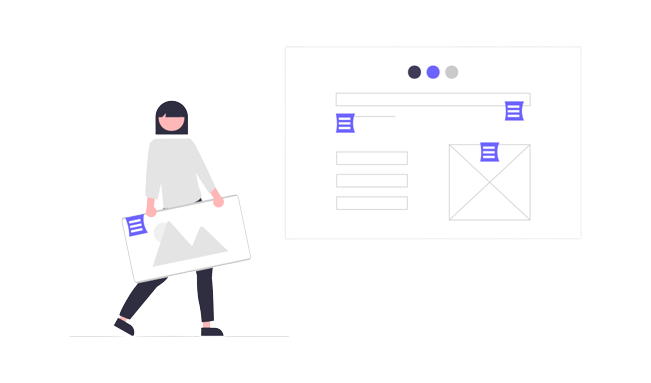
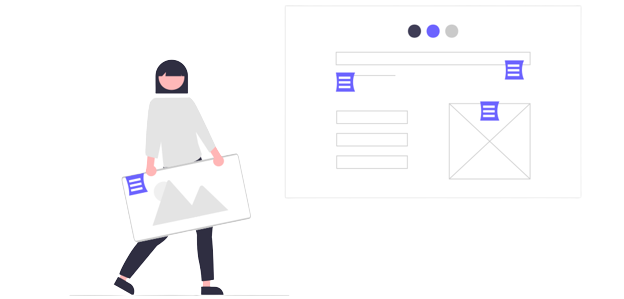
landing page

diff --git a/src/pages/LandingPage/LandingPage.jsx b/src/pages/LandingPage/LandingPage.jsx
@@ -1,24 +1,10 @@
 import React from 'react';
 import './LandingPage.css';
-
+import { useNavigate } from 'react-router';
 const LandingPage = () => {
+    const navigate = useNavigate();
     return (<main>
-        {/* <header>
-            <img className="brand" src="images/FPRSquare.png" alt="FCAMs" width={"90px"} height={"80px"}/>
-            <nav className="navbar">
-                <ul>
-                    <li><a href="#features">Features</a></li>
-                    <li><a href="#team">Our Team</a></li>
-                    <li><a href="#contact">Contact Us</a></li>
-                </ul>
-                <button className="btn" type='button'>
-                    LOG IN
-                </button>
-            </nav>
-        </header> */}
-
-        <section className="home" id="home">
-
+        <section className="home mt-0" id="home">
             <div className="content">
                 <h1 style={{
                     fontWeight: 'bold'
@@ -30,7 +16,7 @@ const LandingPage = () => {
             </div>
         </section>
 
-        <section className="features" id="features">
+        <section className="features mt-20" id="features">
 
             <h1 className="heading">Features to Help your achievements thrive</h1>
 
@@ -83,25 +69,29 @@ const LandingPage = () => {
                 <div className="landcard">
                     <div className="card-content">
                         <div className="card-imgbox">
-                            <img src="" alt="" />
+                            <img src="https://www.linkedin.com/in/karnika-rajput-365159210/overlay/photo/" href = "https://www.linkedin.com/in/karan-banjade-929b9a167/" alt="" />
                         </div>
                         <div className="card-contentbox">
                             <h3>Karan Banjade</h3>
                             <span>Full Stack Developer</span>
                             <div className="social-icons flex justify-between">
                             <span>
+                                <a href='https://github.com/KaranBanjade' target={"_blank"} rel={"noreferrer"} >
                                 <svg xmlns="http://www.w3.org/2000/svg" x="0px" y="0px"
                                     width="50" height="50"
-                                    viewBox="0 0 50 50">
+                                    viewBox="0 0 50 50" >
                                     <path d="M17.791,46.836C18.502,46.53,19,45.823,19,45v-5.4c0-0.197,0.016-0.402,0.041-0.61C19.027,38.994,19.014,38.997,19,39 c0,0-3,0-3.6,0c-1.5,0-2.8-0.6-3.4-1.8c-0.7-1.3-1-3.5-2.8-4.7C8.9,32.3,9.1,32,9.7,32c0.6,0.1,1.9,0.9,2.7,2c0.9,1.1,1.8,2,3.4,2 c2.487,0,3.82-0.125,4.622-0.555C21.356,34.056,22.649,33,24,33v-0.025c-5.668-0.182-9.289-2.066-10.975-4.975 c-3.665,0.042-6.856,0.405-8.677,0.707c-0.058-0.327-0.108-0.656-0.151-0.987c1.797-0.296,4.843-0.647,8.345-0.714 c-0.112-0.276-0.209-0.559-0.291-0.849c-3.511-0.178-6.541-0.039-8.187,0.097c-0.02-0.332-0.047-0.663-0.051-0.999 c1.649-0.135,4.597-0.27,8.018-0.111c-0.079-0.5-0.13-1.011-0.13-1.543c0-1.7,0.6-3.5,1.7-5c-0.5-1.7-1.2-5.3,0.2-6.6 c2.7,0,4.6,1.3,5.5,2.1C21,13.4,22.9,13,25,13s4,0.4,5.6,1.1c0.9-0.8,2.8-2.1,5.5-2.1c1.5,1.4,0.7,5,0.2,6.6c1.1,1.5,1.7,3.2,1.6,5 c0,0.484-0.045,0.951-0.11,1.409c3.499-0.172,6.527-0.034,8.204,0.102c-0.002,0.337-0.033,0.666-0.051,0.999 c-1.671-0.138-4.775-0.28-8.359-0.089c-0.089,0.336-0.197,0.663-0.325,0.98c3.546,0.046,6.665,0.389,8.548,0.689 c-0.043,0.332-0.093,0.661-0.151,0.987c-1.912-0.306-5.171-0.664-8.879-0.682C35.112,30.873,31.557,32.75,26,32.969V33 c2.6,0,5,3.9,5,6.6V45c0,0.823,0.498,1.53,1.209,1.836C41.37,43.804,48,35.164,48,25C48,12.318,37.683,2,25,2S2,12.318,2,25 C2,35.164,8.63,43.804,17.791,46.836z"></path>
                                 </svg>
+                                </a>
                             </span>
                             <span>
+                            <a href='https://www.linkedin.com/in/karan-banjade-929b9a167/' target={"_blank"} rel={"noreferrer"} >
                                 <svg xmlns="http://www.w3.org/2000/svg" x="0px" y="0px"
                                     width="50" height="50"
                                     viewBox="0 0 50 50">
                                     <path d="M25,2C12.318,2,2,12.317,2,25s10.318,23,23,23s23-10.317,23-23S37.682,2,25,2z M18,35h-4V20h4V35z M16,17 c-1.105,0-2-0.895-2-2c0-1.105,0.895-2,2-2s2,0.895,2,2C18,16.105,17.105,17,16,17z M37,35h-4v-5v-2.5c0-1.925-1.575-3.5-3.5-3.5 S26,25.575,26,27.5V35h-4V20h4v1.816C27.168,20.694,28.752,20,30.5,20c3.59,0,6.5,2.91,6.5,6.5V35z"></path>
                                 </svg>
+                                </a>
                             </span>
                             </div>
                         </div>
@@ -118,18 +108,22 @@ const LandingPage = () => {
                             <span>Backend Developer</span>
                             <div className="social-icons flex justify-between">
                             <span>
+                            <a href='https://github.com/abhishekg323' target={"_blank"} rel={"noreferrer"}  >
                                 <svg xmlns="http://www.w3.org/2000/svg" x="0px" y="0px"
                                     width="50" height="50"
                                     viewBox="0 0 50 50">
                                     <path d="M17.791,46.836C18.502,46.53,19,45.823,19,45v-5.4c0-0.197,0.016-0.402,0.041-0.61C19.027,38.994,19.014,38.997,19,39 c0,0-3,0-3.6,0c-1.5,0-2.8-0.6-3.4-1.8c-0.7-1.3-1-3.5-2.8-4.7C8.9,32.3,9.1,32,9.7,32c0.6,0.1,1.9,0.9,2.7,2c0.9,1.1,1.8,2,3.4,2 c2.487,0,3.82-0.125,4.622-0.555C21.356,34.056,22.649,33,24,33v-0.025c-5.668-0.182-9.289-2.066-10.975-4.975 c-3.665,0.042-6.856,0.405-8.677,0.707c-0.058-0.327-0.108-0.656-0.151-0.987c1.797-0.296,4.843-0.647,8.345-0.714 c-0.112-0.276-0.209-0.559-0.291-0.849c-3.511-0.178-6.541-0.039-8.187,0.097c-0.02-0.332-0.047-0.663-0.051-0.999 c1.649-0.135,4.597-0.27,8.018-0.111c-0.079-0.5-0.13-1.011-0.13-1.543c0-1.7,0.6-3.5,1.7-5c-0.5-1.7-1.2-5.3,0.2-6.6 c2.7,0,4.6,1.3,5.5,2.1C21,13.4,22.9,13,25,13s4,0.4,5.6,1.1c0.9-0.8,2.8-2.1,5.5-2.1c1.5,1.4,0.7,5,0.2,6.6c1.1,1.5,1.7,3.2,1.6,5 c0,0.484-0.045,0.951-0.11,1.409c3.499-0.172,6.527-0.034,8.204,0.102c-0.002,0.337-0.033,0.666-0.051,0.999 c-1.671-0.138-4.775-0.28-8.359-0.089c-0.089,0.336-0.197,0.663-0.325,0.98c3.546,0.046,6.665,0.389,8.548,0.689 c-0.043,0.332-0.093,0.661-0.151,0.987c-1.912-0.306-5.171-0.664-8.879-0.682C35.112,30.873,31.557,32.75,26,32.969V33 c2.6,0,5,3.9,5,6.6V45c0,0.823,0.498,1.53,1.209,1.836C41.37,43.804,48,35.164,48,25C48,12.318,37.683,2,25,2S2,12.318,2,25 C2,35.164,8.63,43.804,17.791,46.836z"></path>
                                 </svg>
+                                </a>
                             </span>
                             <span>
+                            <a href='https://www.linkedin.com/in/abhishekg323/' target={"_blank"} rel={"noreferrer"} >
                                 <svg xmlns="http://www.w3.org/2000/svg" x="0px" y="0px"
                                     width="50" height="50"
                                     viewBox="0 0 50 50">
                                     <path d="M25,2C12.318,2,2,12.317,2,25s10.318,23,23,23s23-10.317,23-23S37.682,2,25,2z M18,35h-4V20h4V35z M16,17 c-1.105,0-2-0.895-2-2c0-1.105,0.895-2,2-2s2,0.895,2,2C18,16.105,17.105,17,16,17z M37,35h-4v-5v-2.5c0-1.925-1.575-3.5-3.5-3.5 S26,25.575,26,27.5V35h-4V20h4v1.816C27.168,20.694,28.752,20,30.5,20c3.59,0,6.5,2.91,6.5,6.5V35z"></path>
                                 </svg>
+                                </a>
                             </span>
                             </div>
                         </div>
@@ -146,18 +140,22 @@ const LandingPage = () => {
                             <span>Frontend Developer</span>
                             <div className="social-icons flex justify-between">
                             <span>
+                            <a href='https://github.com/tarnibalgoher5' target={"_blank"} rel={"noreferrer"} >
                                 <svg xmlns="http://www.w3.org/2000/svg" x="0px" y="0px"
                                     width="50" height="50"
                                     viewBox="0 0 50 50">
                                     <path d="M17.791,46.836C18.502,46.53,19,45.823,19,45v-5.4c0-0.197,0.016-0.402,0.041-0.61C19.027,38.994,19.014,38.997,19,39 c0,0-3,0-3.6,0c-1.5,0-2.8-0.6-3.4-1.8c-0.7-1.3-1-3.5-2.8-4.7C8.9,32.3,9.1,32,9.7,32c0.6,0.1,1.9,0.9,2.7,2c0.9,1.1,1.8,2,3.4,2 c2.487,0,3.82-0.125,4.622-0.555C21.356,34.056,22.649,33,24,33v-0.025c-5.668-0.182-9.289-2.066-10.975-4.975 c-3.665,0.042-6.856,0.405-8.677,0.707c-0.058-0.327-0.108-0.656-0.151-0.987c1.797-0.296,4.843-0.647,8.345-0.714 c-0.112-0.276-0.209-0.559-0.291-0.849c-3.511-0.178-6.541-0.039-8.187,0.097c-0.02-0.332-0.047-0.663-0.051-0.999 c1.649-0.135,4.597-0.27,8.018-0.111c-0.079-0.5-0.13-1.011-0.13-1.543c0-1.7,0.6-3.5,1.7-5c-0.5-1.7-1.2-5.3,0.2-6.6 c2.7,0,4.6,1.3,5.5,2.1C21,13.4,22.9,13,25,13s4,0.4,5.6,1.1c0.9-0.8,2.8-2.1,5.5-2.1c1.5,1.4,0.7,5,0.2,6.6c1.1,1.5,1.7,3.2,1.6,5 c0,0.484-0.045,0.951-0.11,1.409c3.499-0.172,6.527-0.034,8.204,0.102c-0.002,0.337-0.033,0.666-0.051,0.999 c-1.671-0.138-4.775-0.28-8.359-0.089c-0.089,0.336-0.197,0.663-0.325,0.98c3.546,0.046,6.665,0.389,8.548,0.689 c-0.043,0.332-0.093,0.661-0.151,0.987c-1.912-0.306-5.171-0.664-8.879-0.682C35.112,30.873,31.557,32.75,26,32.969V33 c2.6,0,5,3.9,5,6.6V45c0,0.823,0.498,1.53,1.209,1.836C41.37,43.804,48,35.164,48,25C48,12.318,37.683,2,25,2S2,12.318,2,25 C2,35.164,8.63,43.804,17.791,46.836z"></path>
                                 </svg>
+                                </a>
                             </span>
                             <span>
+                            <a href='https://www.linkedin.com/in/tarni-balgoher-159879241/' target={"_blank"} rel={"noreferrer"}  >
                                 <svg xmlns="http://www.w3.org/2000/svg" x="0px" y="0px"
                                     width="50" height="50"
                                     viewBox="0 0 50 50">
                                     <path d="M25,2C12.318,2,2,12.317,2,25s10.318,23,23,23s23-10.317,23-23S37.682,2,25,2z M18,35h-4V20h4V35z M16,17 c-1.105,0-2-0.895-2-2c0-1.105,0.895-2,2-2s2,0.895,2,2C18,16.105,17.105,17,16,17z M37,35h-4v-5v-2.5c0-1.925-1.575-3.5-3.5-3.5 S26,25.575,26,27.5V35h-4V20h4v1.816C27.168,20.694,28.752,20,30.5,20c3.59,0,6.5,2.91,6.5,6.5V35z"></path>
                                 </svg>
+                                </a>
                             </span>
                             </div>
                         </div>
@@ -174,18 +172,22 @@ const LandingPage = () => {
                             <span>Frontend Developer</span>
                             <div className="social-icons flex justify-between">
                             <span>
+                            <a href='https://github.com/karnika22' target={"_blank"} rel={"noreferrer"} >
                                 <svg xmlns="http://www.w3.org/2000/svg" x="0px" y="0px"
                                     width="50" height="50"
                                     viewBox="0 0 50 50">
                                     <path d="M17.791,46.836C18.502,46.53,19,45.823,19,45v-5.4c0-0.197,0.016-0.402,0.041-0.61C19.027,38.994,19.014,38.997,19,39 c0,0-3,0-3.6,0c-1.5,0-2.8-0.6-3.4-1.8c-0.7-1.3-1-3.5-2.8-4.7C8.9,32.3,9.1,32,9.7,32c0.6,0.1,1.9,0.9,2.7,2c0.9,1.1,1.8,2,3.4,2 c2.487,0,3.82-0.125,4.622-0.555C21.356,34.056,22.649,33,24,33v-0.025c-5.668-0.182-9.289-2.066-10.975-4.975 c-3.665,0.042-6.856,0.405-8.677,0.707c-0.058-0.327-0.108-0.656-0.151-0.987c1.797-0.296,4.843-0.647,8.345-0.714 c-0.112-0.276-0.209-0.559-0.291-0.849c-3.511-0.178-6.541-0.039-8.187,0.097c-0.02-0.332-0.047-0.663-0.051-0.999 c1.649-0.135,4.597-0.27,8.018-0.111c-0.079-0.5-0.13-1.011-0.13-1.543c0-1.7,0.6-3.5,1.7-5c-0.5-1.7-1.2-5.3,0.2-6.6 c2.7,0,4.6,1.3,5.5,2.1C21,13.4,22.9,13,25,13s4,0.4,5.6,1.1c0.9-0.8,2.8-2.1,5.5-2.1c1.5,1.4,0.7,5,0.2,6.6c1.1,1.5,1.7,3.2,1.6,5 c0,0.484-0.045,0.951-0.11,1.409c3.499-0.172,6.527-0.034,8.204,0.102c-0.002,0.337-0.033,0.666-0.051,0.999 c-1.671-0.138-4.775-0.28-8.359-0.089c-0.089,0.336-0.197,0.663-0.325,0.98c3.546,0.046,6.665,0.389,8.548,0.689 c-0.043,0.332-0.093,0.661-0.151,0.987c-1.912-0.306-5.171-0.664-8.879-0.682C35.112,30.873,31.557,32.75,26,32.969V33 c2.6,0,5,3.9,5,6.6V45c0,0.823,0.498,1.53,1.209,1.836C41.37,43.804,48,35.164,48,25C48,12.318,37.683,2,25,2S2,12.318,2,25 C2,35.164,8.63,43.804,17.791,46.836z"></path>
                                 </svg>
+                                </a>    
                             </span>
                             <span>
+                            <a href='https://www.linkedin.com/in/karnika-rajput-365159210/' target={"_blank"} rel={"noreferrer"} >
                                 <svg xmlns="http://www.w3.org/2000/svg" x="0px" y="0px"
                                     width="50" height="50"
                                     viewBox="0 0 50 50">
                                     <path d="M25,2C12.318,2,2,12.317,2,25s10.318,23,23,23s23-10.317,23-23S37.682,2,25,2z M18,35h-4V20h4V35z M16,17 c-1.105,0-2-0.895-2-2c0-1.105,0.895-2,2-2s2,0.895,2,2C18,16.105,17.105,17,16,17z M37,35h-4v-5v-2.5c0-1.925-1.575-3.5-3.5-3.5 S26,25.575,26,27.5V35h-4V20h4v1.816C27.168,20.694,28.752,20,30.5,20c3.59,0,6.5,2.91,6.5,6.5V35z"></path>
                                 </svg>
+                                </a>
                             </span>
                             </div>
 
@@ -198,7 +200,7 @@ const LandingPage = () => {
         <section className="footer">
 
             <div className="footer-container">
-                <img className="brand" src="images/FPRSquare.png" alt="FCAMs" width={"100px"} height={"100px"} />
+                <img className="brand" src="images/FPRSquare.png" alt="FCAMs" width={"200px"} height={"200px"} />
                 <div className="box">
                     <h3>Contact Info</h3>
                     <a className="links"> <i className="fas fa-envelope" /> msifmsys@gmail.com </a>

diff --git a/src/pages/LandingPage/LandingPage.css b/src/pages/LandingPage/LandingPage.css
@@ -23,14 +23,15 @@ main{
 .home {
     width: 100vw;
     display: flex;
-    justify-content: space-around;
-    align-items: center;
-    padding-top: 20px;
+    /* justify-content: space-around; */
+    /* align-items: center; */
+    /* padding-top: 20px; */
     /* background-color: peru; */
     /* height: 72vh; */
 }
 .home .image{
     width:45%;
+    height: 10px;
 }
 
 
@@ -109,7 +110,7 @@ header li a:hover{
 .box-container {
     /* max-width: 1400px; */
     width: 100%;
-    margin: auto;
+    margin-top: -5%;
     
 }
 
@@ -119,6 +120,7 @@ header li a:hover{
     justify-content: space-evenly;
     align-items: center;
     margin: 0 auto;
+    margin-top: -8%;
     padding: 20px;
     width: 80%;
 }
@@ -126,14 +128,14 @@ header li a:hover{
     width: 50%;
     display: flex;
     justify-content: center;
-    /* align-items:center; */
+    align-items:center;
     flex-direction: column;
 }
 
 .container .feature-img-container img {
     
-    width: 550px;
-    height: 450px;
+    width: 300px;
+    height: 300px;
     object-fit: contain;
     object-position: center;
 }
